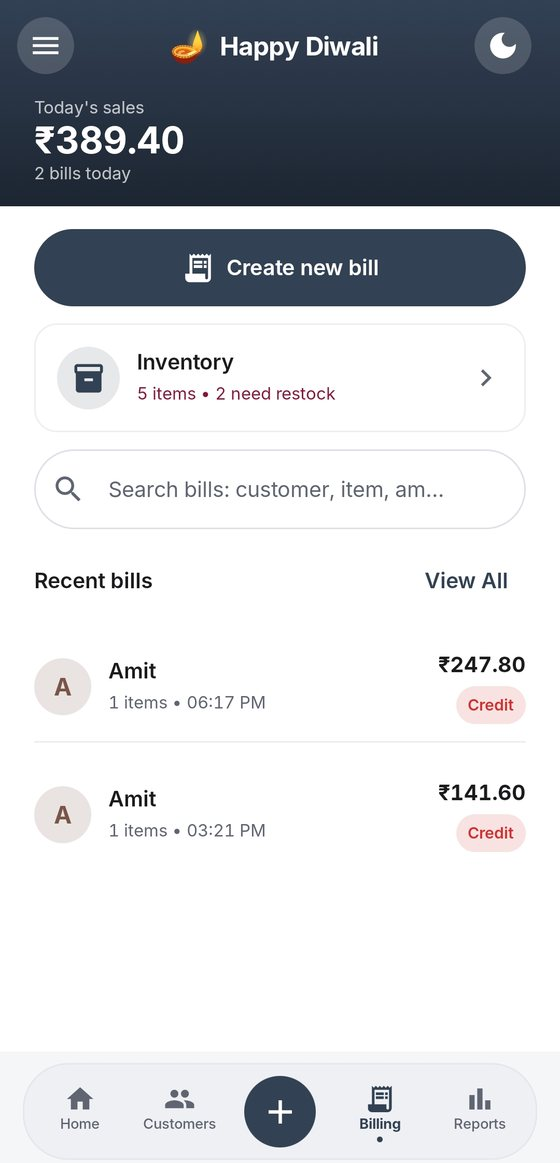
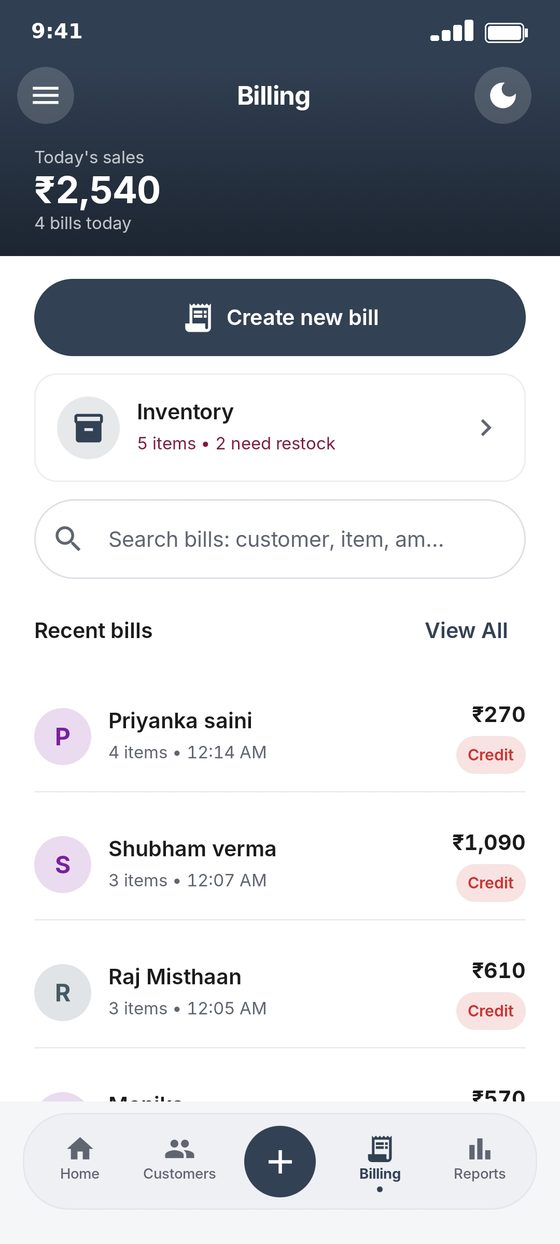
Add files via upload

diff --git a/index.html b/index.html
@@ -10,15 +10,16 @@
 <meta property="og:description" content="BizLedger is a digital khata (udhar ledger) app for small shops in India. Record udhar and jama, send reminders, make bills and see reports.">
 <meta property="og:type" content="website">
 <meta property="og:site_name" content="BizLedger">
-<meta property="og:image" content="icon-512.png">
+<meta property="og:image" content="https://motioncircuit.github.io/bizledger/assets/og.jpg">
 <link rel="icon" href="favicon.ico?v=2" sizes="any">
 <link rel="icon" type="image/svg+xml" href="favicon.svg?v=2">
 <link rel="icon" type="image/png" sizes="32x32" href="favicon-32.png?v=2">
 <link rel="apple-touch-icon" href="apple-touch-icon.png?v=2">
 <link rel="manifest" href="site.webmanifest">
-<link rel="stylesheet" href="style.css?v=8">
+<link rel="preconnect" href="https://fonts.googleapis.com"><link rel="preconnect" href="https://fonts.gstatic.com" crossorigin><link href="https://fonts.googleapis.com/css2?family=Plus+Jakarta+Sans:wght@400;500;600;700;800&display=swap" rel="stylesheet">
+<link rel="stylesheet" href="style.css?v=9">
 <link rel="canonical" href="https://motioncircuit.github.io/bizledger/">
-<meta name="twitter:card" content="summary">
+<meta name="twitter:card" content="summary_large_image">
 <script type="application/ld+json">{"@context":"https://schema.org","@type":"SoftwareApplication","name":"BizLedger","operatingSystem":"Android","applicationCategory":"BusinessApplication","description":"Digital khata (udhar ledger) app for small shops in India.","offers":[{"@type":"Offer","name":"Basic","price":"299","priceCurrency":"INR"},{"@type":"Offer","name":"Premium","price":"499","priceCurrency":"INR"}],"publisher":{"@type":"Organization","name":"MotionCircuit","email":"contact.whonithin@gmail.com","telephone":"+919053155257"}}</script>
 </head>
 <body>
@@ -33,12 +34,13 @@
 <section class="hero2"><div class="wrap hgrid">
   <div class="rv">
     <span class="pill2">Made in India &middot; Android app &middot; Coming soon</span>
-    <h1>Leave the paper khata.<br><span class="hl">Your complete udhar hisaab</span> now on your phone.</h1>
+    <h1>Leave the paper khata.<br><span class="hl">Run your shop's udhar</span> from your phone.</h1>
     <p class="lead2">Record udhar and jama, send WhatsApp reminders, make bills and manage stock &mdash; all in one simple app. For kirana, medical, clothing and hardware &mdash; every kind of shop.</p>
-    <div class="cta"><a class="btn w" href="#pricing">See plans</a><a class="btn ghost2" href="contact.html">Talk to us</a></div>
+    <div class="cta"><a class="btn w" href="contact.html">Get early access</a><a class="btn ghost2" href="#pricing">See pricing</a></div>
+    <span class="gp"><svg viewBox="0 0 24 24" width="18" height="18" fill="currentColor"><path d="M5 3.5v17l14-8.5z"/></svg><span><small>Android app on</small>Google Play &middot; Coming soon</span></span>
     <ul class="trust2"><li>Google sign-in</li><li>Data stored in India</li><li>Razorpay secure payments</li></ul>
   </div>
-  <div class="rv d2"><div class="shot fl"><img src="assets/app-customers.jpg" width="560" height="1163" alt="BizLedger customers screen showing dues and linked customers"></div></div>
+  <div class="rv d2"><div class="shot fl"><img src="assets/app-billing.jpg" width="560" height="1244" alt="BizLedger billing screen with recent bills and inventory"></div></div>
 </div></section>
 
 <section class="strip"><div class="wrap sgrid">
@@ -65,14 +67,30 @@
 <section class="soft" id="screens"><div class="wrap">
   <span class="eyebrow">App screens</span>
   <h2>The real app, real screens</h2>
-  <p class="sub">Home, billing and reports &mdash; clean and simple.</p>
+  <p class="sub">Home, customers and reports &mdash; clean and simple.</p>
   <div class="shots">
-    <figure class="rv"><div class="shot"><img loading="lazy" src="assets/app-home.jpg" width="560" height="1163" alt="BizLedger home screen with total due and recent activity"></div><figcaption><b>Home</b>Total due, reminders, UPI QR and recent activity</figcaption></figure>
-    <figure class="rv d1"><div class="shot"><img loading="lazy" src="assets/app-billing.jpg" width="560" height="1163" alt="BizLedger billing screen with recent bills and inventory"></div><figcaption><b>Billing</b>Create a new bill, keep an eye on stock</figcaption></figure>
-    <figure class="rv d2"><div class="shot"><img loading="lazy" src="assets/app-reports.jpg" width="560" height="1163" alt="BizLedger reports screen with credit vs payments chart"></div><figcaption><b>Reports</b>Credit vs payments, expenses and net cash</figcaption></figure>
+    <figure class="rv"><div class="shot"><img loading="lazy" src="assets/app-home.jpg" width="560" height="1244" alt="BizLedger home screen with total due and recent activity"></div><figcaption><b>Home</b>Total due, reminders, UPI QR and recent activity</figcaption></figure>
+    <figure class="rv d1"><div class="shot"><img loading="lazy" src="assets/app-customers.jpg" width="560" height="1244" alt="BizLedger customers screen with dues and QR status"></div><figcaption><b>Customers</b>Dues, QR status and linked customers at a glance</figcaption></figure>
+    <figure class="rv d2"><div class="shot"><img loading="lazy" src="assets/app-reports.jpg" width="560" height="1244" alt="BizLedger reports screen with credit vs payments chart"></div><figcaption><b>Reports</b>Credit vs payments, expenses and net cash</figcaption></figure>
   </div>
 </div></section>
 
+<section><div class="wrap split">
+  <div class="rv"><span class="eyebrow l">Reminders</span><h2 class="l">Polite reminders that actually get paid</h2>
+    <p class="sub l">One tap sends the pending amount and your UPI QR on WhatsApp. No awkward conversations, no forgotten dues.</p>
+    <div class="chips"><span>Kirana</span><span>Medical</span><span>Clothing</span><span>Hardware</span><span>Every local shop</span></div></div>
+  <div class="rv d1"><div class="wa"><div class="wah"><i>S</i><b>Sharma Ji Kiryana Store</b></div>
+    <div class="bub">Hello Amit, a gentle reminder from Sharma Ji Kiryana Store.<br><b>&#8377;1,090</b> is pending. You can pay by UPI using the QR below.<div class="qr"></div><small>10:42 AM &#10003;&#10003;</small></div></div></div>
+</div></section>
+<section class="soft"><div class="wrap narrow">
+  <span class="eyebrow">Why switch</span><h2>Paper khata vs BizLedger</h2><p class="sub">Same udhar habit, none of the headaches.</p>
+  <div class="tw"><table class="cmp"><tr><th></th><th>Paper khata</th><th>BizLedger</th></tr>
+  <tr><td>Balance of a customer</td><td>Add up pages by hand</td><td>Always live</td></tr>
+  <tr><td>Asking for payment</td><td>Awkward, in person</td><td>WhatsApp reminder with UPI QR</td></tr>
+  <tr><td>Lost or torn pages</td><td>Gone forever</td><td>Safe in your account</td></tr>
+  <tr><td>Bills, stock, reports</td><td>Separate registers</td><td>All in one app</td></tr>
+  <tr><td>Customer disputes</td><td>Your word vs theirs</td><td>Clear dated entries</td></tr></table></div>
+</div></section>
 <section class="soft"><div class="wrap">
   <span class="eyebrow">Getting started</span>
   <h2>Start in 3 simple steps</h2>
@@ -131,6 +149,6 @@
 </div></footer>
 
 <script>(function(){var e=document.querySelectorAll(".rv");if(!("IntersectionObserver" in window)){e.forEach(function(x){x.classList.add("in")});return}var o=new IntersectionObserver(function(l){l.forEach(function(i){if(i.isIntersecting){i.target.classList.add("in");o.unobserve(i.target)}})},{threshold:.12});e.forEach(function(x){o.observe(x)})})();</script>
-<script src="site.js?v=8" defer></script>
-<script src="lang.js?v=8" defer></script>
+<script src="site.js?v=9" defer></script>
+
 </body></html>

diff --git a/style.css b/style.css
@@ -207,3 +207,29 @@ section[id]{scroll-margin-top:72px}
 .bento .bc:last-child .i{grid-row:span 2}
 .bento .bc:last-child h3{margin:0 0 2px}
 @media(max-width:820px){.bento .bc:last-child{display:block}}
+
+/* ===== v9 brand layer ===== */
+:root{--gold:#e8b76a}
+body,button,input,select,textarea{font-family:"Plus Jakarta Sans",system-ui,-apple-system,"Segoe UI",Roboto,sans-serif}
+h1,h2,h3{letter-spacing:-.02em}
+.gp{display:inline-flex;align-items:center;gap:10px;margin:22px 0 0 0;padding:8px 16px;border:1px solid rgba(255,255,255,.35);border-radius:12px;background:rgba(0,0,0,.25);font-weight:700;font-size:15px;line-height:1.15}
+.gp small{display:block;font-size:10px;font-weight:500;letter-spacing:.6px;text-transform:uppercase;color:#f6dfe6}
+.trust2{margin-top:18px}
+.split{display:grid;grid-template-columns:1.1fr .9fr;gap:44px;align-items:center}
+.split .l{text-align:left}
+.chips{display:flex;flex-wrap:wrap;gap:8px;margin-top:6px}
+.chips span{border:1px solid var(--line);background:var(--soft);color:var(--brand);padding:6px 14px;border-radius:999px;font-size:14px;font-weight:600}
+.wa{max-width:340px;margin:0 auto;background:#efe7dd;border-radius:22px;overflow:hidden;box-shadow:0 24px 50px rgba(0,0,0,.18)}
+.wah{display:flex;align-items:center;gap:10px;background:#075e54;color:#fff;padding:12px 14px}
+.wah i{width:34px;height:34px;border-radius:50%;background:var(--brand);display:flex;align-items:center;justify-content:center;font-style:normal;font-weight:700}
+.bub{background:#fff;margin:22px 14px 26px;padding:12px 14px;border-radius:4px 14px 14px 14px;font-size:14.5px;line-height:1.5;box-shadow:0 1px 2px rgba(0,0,0,.12)}
+.bub small{display:block;text-align:right;color:#8a8a8a;font-size:11px;margin-top:6px}
+.qr{width:96px;height:96px;margin:10px 0 2px;border-radius:8px;background:conic-gradient(#1d1d1f 25%,#fff 0 50%,#1d1d1f 0 75%,#fff 0) 0 0/16px 16px;border:6px solid #fff;outline:1px solid var(--line)}
+.tw{overflow-x:auto;border:1px solid var(--line);border-radius:16px;background:#fff}
+.cmp{width:100%;border-collapse:collapse;font-size:15px}
+.cmp th,.cmp td{padding:14px 16px;text-align:left;border-bottom:1px solid var(--line)}
+.cmp tr:last-child td{border-bottom:0}
+.cmp th{font-size:13px;letter-spacing:.8px;text-transform:uppercase;color:var(--muted)}
+.cmp th:last-child,.cmp td:last-child{background:var(--soft);color:var(--brand);font-weight:700}
+.cmp td:first-child{font-weight:600}
+@media(max-width:820px){.split{grid-template-columns:1fr;gap:28px}}

diff --git a/contact.html b/contact.html
@@ -10,13 +10,16 @@
 <meta property="og:description" content="Contact BizLedger by email, phone or WhatsApp. Operated by MotionCircuit, Panipat, Haryana.">
 <meta property="og:type" content="website">
 <meta property="og:site_name" content="BizLedger">
-<meta property="og:image" content="icon-512.png">
+<meta property="og:image" content="https://motioncircuit.github.io/bizledger/assets/og.jpg">
 <link rel="icon" href="favicon.ico?v=2" sizes="any">
 <link rel="icon" type="image/svg+xml" href="favicon.svg?v=2">
 <link rel="icon" type="image/png" sizes="32x32" href="favicon-32.png?v=2">
 <link rel="apple-touch-icon" href="apple-touch-icon.png?v=2">
 <link rel="manifest" href="site.webmanifest">
-<link rel="stylesheet" href="style.css?v=8">
+<link rel="preconnect" href="https://fonts.googleapis.com"><link rel="preconnect" href="https://fonts.gstatic.com" crossorigin><link href="https://fonts.googleapis.com/css2?family=Plus+Jakarta+Sans:wght@400;500;600;700;800&display=swap" rel="stylesheet">
+<link rel="stylesheet" href="style.css?v=9">
+<link rel="canonical" href="https://motioncircuit.github.io/bizledger/contact.html">
+<meta name="twitter:card" content="summary_large_image">
 </head>
 <body>
 <header class="top"><div class="wrap bar">
@@ -42,7 +45,7 @@
     <label>Phone (optional)<input name="phone" type="tel" autocomplete="tel"></label>
   </div>
   <label>Email<input name="email" type="email" required autocomplete="email"></label>
-  <label>What is it about?<select name="topic"><option>General question</option><option>Plans &amp; pricing</option><option>Payment / refund</option><option>Account help</option><option>Other</option></select></label>
+  <label>What is it about?<select name="topic"><option>Early access / waitlist</option><option>General question</option><option>Plans &amp; pricing</option><option>Payment / refund</option><option>Account help</option><option>Other</option></select></label>
   <label>Message<textarea name="message" rows="5" required></textarea></label>
   <input type="text" name="_gotcha" tabindex="-1" autocomplete="off" style="display:none">
   <input type="hidden" name="_subject" value="New message from BizLedger website">
@@ -72,7 +75,7 @@
     <p>&copy; 2026 MotionCircuit. All rights reserved.</p>
   </div>
 </div></footer>
-<script src="site.js?v=8" defer></script>
-<script src="lang.js?v=8" defer></script>
+<script src="site.js?v=9" defer></script>
+
 </body>
 </html>

diff --git a/terms.html b/terms.html
@@ -10,13 +10,16 @@
 <meta property="og:description" content="BizLedger Terms and Conditions: the service, plans and payments, UPI payments, acceptable use and governing law.">
 <meta property="og:type" content="website">
 <meta property="og:site_name" content="BizLedger">
-<meta property="og:image" content="icon-512.png">
+<meta property="og:image" content="https://motioncircuit.github.io/bizledger/assets/og.jpg">
 <link rel="icon" href="favicon.ico?v=2" sizes="any">
 <link rel="icon" type="image/svg+xml" href="favicon.svg?v=2">
 <link rel="icon" type="image/png" sizes="32x32" href="favicon-32.png?v=2">
 <link rel="apple-touch-icon" href="apple-touch-icon.png?v=2">
 <link rel="manifest" href="site.webmanifest">
-<link rel="stylesheet" href="style.css?v=8">
+<link rel="preconnect" href="https://fonts.googleapis.com"><link rel="preconnect" href="https://fonts.gstatic.com" crossorigin><link href="https://fonts.googleapis.com/css2?family=Plus+Jakarta+Sans:wght@400;500;600;700;800&display=swap" rel="stylesheet">
+<link rel="stylesheet" href="style.css?v=9">
+<link rel="canonical" href="https://motioncircuit.github.io/bizledger/terms.html">
+<meta name="twitter:card" content="summary_large_image">
 </head>
 <body>
 <header class="top"><div class="wrap bar">
@@ -79,7 +82,7 @@
     <p>&copy; 2026 MotionCircuit. All rights reserved.</p>
   </div>
 </div></footer>
-<script src="site.js?v=8" defer></script>
-<script src="lang.js?v=8" defer></script>
+<script src="site.js?v=9" defer></script>
+
 </body>
 </html>

diff --git a/refund.html b/refund.html
@@ -10,13 +10,16 @@
 <meta property="og:description" content="BizLedger refund and cancellation policy: when refunds are given, how to request one and how long it takes.">
 <meta property="og:type" content="website">
 <meta property="og:site_name" content="BizLedger">
-<meta property="og:image" content="icon-512.png">
+<meta property="og:image" content="https://motioncircuit.github.io/bizledger/assets/og.jpg">
 <link rel="icon" href="favicon.ico?v=2" sizes="any">
 <link rel="icon" type="image/svg+xml" href="favicon.svg?v=2">
 <link rel="icon" type="image/png" sizes="32x32" href="favicon-32.png?v=2">
 <link rel="apple-touch-icon" href="apple-touch-icon.png?v=2">
 <link rel="manifest" href="site.webmanifest">
-<link rel="stylesheet" href="style.css?v=8">
+<link rel="preconnect" href="https://fonts.googleapis.com"><link rel="preconnect" href="https://fonts.gstatic.com" crossorigin><link href="https://fonts.googleapis.com/css2?family=Plus+Jakarta+Sans:wght@400;500;600;700;800&display=swap" rel="stylesheet">
+<link rel="stylesheet" href="style.css?v=9">
+<link rel="canonical" href="https://motioncircuit.github.io/bizledger/refund.html">
+<meta name="twitter:card" content="summary_large_image">
 </head>
 <body>
 <header class="top"><div class="wrap bar">
@@ -75,7 +78,7 @@
     <p>&copy; 2026 MotionCircuit. All rights reserved.</p>
   </div>
 </div></footer>
-<script src="site.js?v=8" defer></script>
-<script src="lang.js?v=8" defer></script>
+<script src="site.js?v=9" defer></script>
+
 </body>
 </html>

diff --git a/privacy.html b/privacy.html
@@ -10,13 +10,16 @@
 <meta property="og:description" content="BizLedger Privacy Policy: what we collect, why, who we share it with and how you can delete your data.">
 <meta property="og:type" content="website">
 <meta property="og:site_name" content="BizLedger">
-<meta property="og:image" content="icon-512.png">
+<meta property="og:image" content="https://motioncircuit.github.io/bizledger/assets/og.jpg">
 <link rel="icon" href="favicon.ico?v=2" sizes="any">
 <link rel="icon" type="image/svg+xml" href="favicon.svg?v=2">
 <link rel="icon" type="image/png" sizes="32x32" href="favicon-32.png?v=2">
 <link rel="apple-touch-icon" href="apple-touch-icon.png?v=2">
 <link rel="manifest" href="site.webmanifest">
-<link rel="stylesheet" href="style.css?v=8">
+<link rel="preconnect" href="https://fonts.googleapis.com"><link rel="preconnect" href="https://fonts.gstatic.com" crossorigin><link href="https://fonts.googleapis.com/css2?family=Plus+Jakarta+Sans:wght@400;500;600;700;800&display=swap" rel="stylesheet">
+<link rel="stylesheet" href="style.css?v=9">
+<link rel="canonical" href="https://motioncircuit.github.io/bizledger/privacy.html">
+<meta name="twitter:card" content="summary_large_image">
 </head>
 <body>
 <header class="top"><div class="wrap bar">
@@ -90,7 +93,7 @@
     <p>&copy; 2026 MotionCircuit. All rights reserved.</p>
   </div>
 </div></footer>
-<script src="site.js?v=8" defer></script>
-<script src="lang.js?v=8" defer></script>
+<script src="site.js?v=9" defer></script>
+
 </body>
 </html>

diff --git a/faq.html b/faq.html
@@ -10,13 +10,16 @@
 <meta property="og:description" content="Frequently asked questions about BizLedger: pricing, payments, refunds, data safety and account deletion.">
 <meta property="og:type" content="website">
 <meta property="og:site_name" content="BizLedger">
-<meta property="og:image" content="icon-512.png">
+<meta property="og:image" content="https://motioncircuit.github.io/bizledger/assets/og.jpg">
 <link rel="icon" href="favicon.ico?v=2" sizes="any">
 <link rel="icon" type="image/svg+xml" href="favicon.svg?v=2">
 <link rel="icon" type="image/png" sizes="32x32" href="favicon-32.png?v=2">
 <link rel="apple-touch-icon" href="apple-touch-icon.png?v=2">
 <link rel="manifest" href="site.webmanifest">
-<link rel="stylesheet" href="style.css?v=8">
+<link rel="preconnect" href="https://fonts.googleapis.com"><link rel="preconnect" href="https://fonts.gstatic.com" crossorigin><link href="https://fonts.googleapis.com/css2?family=Plus+Jakarta+Sans:wght@400;500;600;700;800&display=swap" rel="stylesheet">
+<link rel="stylesheet" href="style.css?v=9">
+<link rel="canonical" href="https://motioncircuit.github.io/bizledger/faq.html">
+<meta name="twitter:card" content="summary_large_image">
 </head>
 <body>
 <header class="top"><div class="wrap bar">
@@ -50,7 +53,7 @@
     <p>&copy; 2026 MotionCircuit. All rights reserved.</p>
   </div>
 </div></footer>
-<script src="site.js?v=8" defer></script>
-<script src="lang.js?v=8" defer></script>
+<script src="site.js?v=9" defer></script>
+
 </body>
 </html>

diff --git a/about.html b/about.html
@@ -10,13 +10,16 @@
 <meta property="og:description" content="About BizLedger, the digital khata app for small shops in India, operated by MotionCircuit.">
 <meta property="og:type" content="website">
 <meta property="og:site_name" content="BizLedger">
-<meta property="og:image" content="icon-512.png">
+<meta property="og:image" content="https://motioncircuit.github.io/bizledger/assets/og.jpg">
 <link rel="icon" href="favicon.ico?v=2" sizes="any">
 <link rel="icon" type="image/svg+xml" href="favicon.svg?v=2">
 <link rel="icon" type="image/png" sizes="32x32" href="favicon-32.png?v=2">
 <link rel="apple-touch-icon" href="apple-touch-icon.png?v=2">
 <link rel="manifest" href="site.webmanifest">
-<link rel="stylesheet" href="style.css?v=8">
+<link rel="preconnect" href="https://fonts.googleapis.com"><link rel="preconnect" href="https://fonts.gstatic.com" crossorigin><link href="https://fonts.googleapis.com/css2?family=Plus+Jakarta+Sans:wght@400;500;600;700;800&display=swap" rel="stylesheet">
+<link rel="stylesheet" href="style.css?v=9">
+<link rel="canonical" href="https://motioncircuit.github.io/bizledger/about.html">
+<meta name="twitter:card" content="summary_large_image">
 </head>
 <body>
 <header class="top"><div class="wrap bar">
@@ -64,7 +67,7 @@
     <p>&copy; 2026 MotionCircuit. All rights reserved.</p>
   </div>
 </div></footer>
-<script src="site.js?v=8" defer></script>
-<script src="lang.js?v=8" defer></script>
+<script src="site.js?v=9" defer></script>
+
 </body>
 </html>

diff --git a/delete-account.html b/delete-account.html
@@ -10,13 +10,16 @@
 <meta property="og:description" content="How to delete your BizLedger account and data, from the app or by email.">
 <meta property="og:type" content="website">
 <meta property="og:site_name" content="BizLedger">
-<meta property="og:image" content="icon-512.png">
+<meta property="og:image" content="https://motioncircuit.github.io/bizledger/assets/og.jpg">
 <link rel="icon" href="favicon.ico?v=2" sizes="any">
 <link rel="icon" type="image/svg+xml" href="favicon.svg?v=2">
 <link rel="icon" type="image/png" sizes="32x32" href="favicon-32.png?v=2">
 <link rel="apple-touch-icon" href="apple-touch-icon.png?v=2">
 <link rel="manifest" href="site.webmanifest">
-<link rel="stylesheet" href="style.css?v=8">
+<link rel="preconnect" href="https://fonts.googleapis.com"><link rel="preconnect" href="https://fonts.gstatic.com" crossorigin><link href="https://fonts.googleapis.com/css2?family=Plus+Jakarta+Sans:wght@400;500;600;700;800&display=swap" rel="stylesheet">
+<link rel="stylesheet" href="style.css?v=9">
+<link rel="canonical" href="https://motioncircuit.github.io/bizledger/delete-account.html">
+<meta name="twitter:card" content="summary_large_image">
 </head>
 <body>
 <header class="top"><div class="wrap bar">
@@ -69,7 +72,7 @@
     <p>&copy; 2026 MotionCircuit. All rights reserved.</p>
   </div>
 </div></footer>
-<script src="site.js?v=8" defer></script>
-<script src="lang.js?v=8" defer></script>
+<script src="site.js?v=9" defer></script>
+
 </body>
 </html>

diff --git a/site.js b/site.js
@@ -1,12 +1,13 @@
+window.tr=function(s){return s};
 (function(){
 var d=document,h=d.documentElement,top=d.querySelector(".top"),mn=d.getElementById("mn");
 function mk(t,c,html){var e=d.createElement(t);e.className=c;if(html)e.innerHTML=html;d.body.appendChild(e);return e}
 var bar=mk("div","pbar");
 var wa=mk("a","wafab",'<svg viewBox="0 0 24 24" width="26" height="26" fill="none" stroke="#fff" stroke-width="1.9" stroke-linecap="round" stroke-linejoin="round"><path d="M21 12a8.5 8.5 0 0 1-12.6 7.4L3 21l1.7-5.1A8.5 8.5 0 1 1 21 12z"/><path d="M9 9.5c0 3 2.5 5.5 5.5 5.5l1.2-1.6-2-1-.8.7a4 4 0 0 1-1.9-1.9l.7-.8-1-2z"/></svg>');
 wa.href="https://wa.me/919053155257?text="+encodeURIComponent("Hello, I would like to know more about BizLedger.");
-wa.target="_blank";wa.rel="noopener";wa.setAttribute("aria-label","WhatsApp par baat karein");
+wa.target="_blank";wa.rel="noopener";wa.setAttribute("aria-label","Chat on WhatsApp");
 var up=mk("button","upfab",'<svg viewBox="0 0 24 24" width="20" height="20" fill="none" stroke="currentColor" stroke-width="2.2" stroke-linecap="round" stroke-linejoin="round"><path d="M12 19V5M5 12l7-7 7 7"/></svg>');
-up.setAttribute("aria-label","Upar jaayein");
+up.setAttribute("aria-label","Back to top");
 up.onclick=function(){window.scrollTo({top:0,behavior:"smooth"})};
 var tick=false;
 function on(){var y=window.scrollY||h.scrollTop,m=h.scrollHeight-h.clientHeight;

diff --git a/404.html b/404.html
@@ -10,13 +10,15 @@
 <meta property="og:description" content="Page not found.">
 <meta property="og:type" content="website">
 <meta property="og:site_name" content="BizLedger">
-<meta property="og:image" content="icon-512.png">
+<meta property="og:image" content="https://motioncircuit.github.io/bizledger/assets/og.jpg">
 <link rel="icon" href="favicon.ico?v=2" sizes="any">
 <link rel="icon" type="image/svg+xml" href="favicon.svg?v=2">
 <link rel="icon" type="image/png" sizes="32x32" href="favicon-32.png?v=2">
 <link rel="apple-touch-icon" href="apple-touch-icon.png?v=2">
 <link rel="manifest" href="site.webmanifest">
-<link rel="stylesheet" href="style.css?v=8">
+<link rel="preconnect" href="https://fonts.googleapis.com"><link rel="preconnect" href="https://fonts.gstatic.com" crossorigin><link href="https://fonts.googleapis.com/css2?family=Plus+Jakarta+Sans:wght@400;500;600;700;800&display=swap" rel="stylesheet">
+<link rel="stylesheet" href="style.css?v=9">
+<meta name="twitter:card" content="summary_large_image">
 </head>
 <body>
 <header class="top"><div class="wrap bar">
@@ -50,7 +52,7 @@
     <p>&copy; 2026 MotionCircuit. All rights reserved.</p>
   </div>
 </div></footer>
-<script src="site.js?v=8" defer></script>
-<script src="lang.js?v=8" defer></script>
+<script src="site.js?v=9" defer></script>
+
 </body>
 </html>

diff --git a/README.md b/README.md
@@ -6,3 +6,9 @@ This repository contains the public website of BizLedger (hosted with GitHub Pag
 
 **Operated by:** MotionCircuit (Proprietor: Nitin), Noorwala, Panipat, Haryana 132103, India
 **Contact:** contact.whonithin@gmail.com &middot; +91 90531 55257
+
+## Moving to your own domain
+1. Buy the domain, point DNS to GitHub Pages (see GitHub docs).
+2. Run `./set-domain.sh yourdomain.com` (updates canonical, sitemap, robots, social image URLs and creates CNAME).
+3. Commit, push, enable the custom domain in Repo Settings > Pages and tick "Enforce HTTPS".
+4. Switch contact email from Gmail to a domain email (e.g. hello@yourdomain.com) in all pages.
